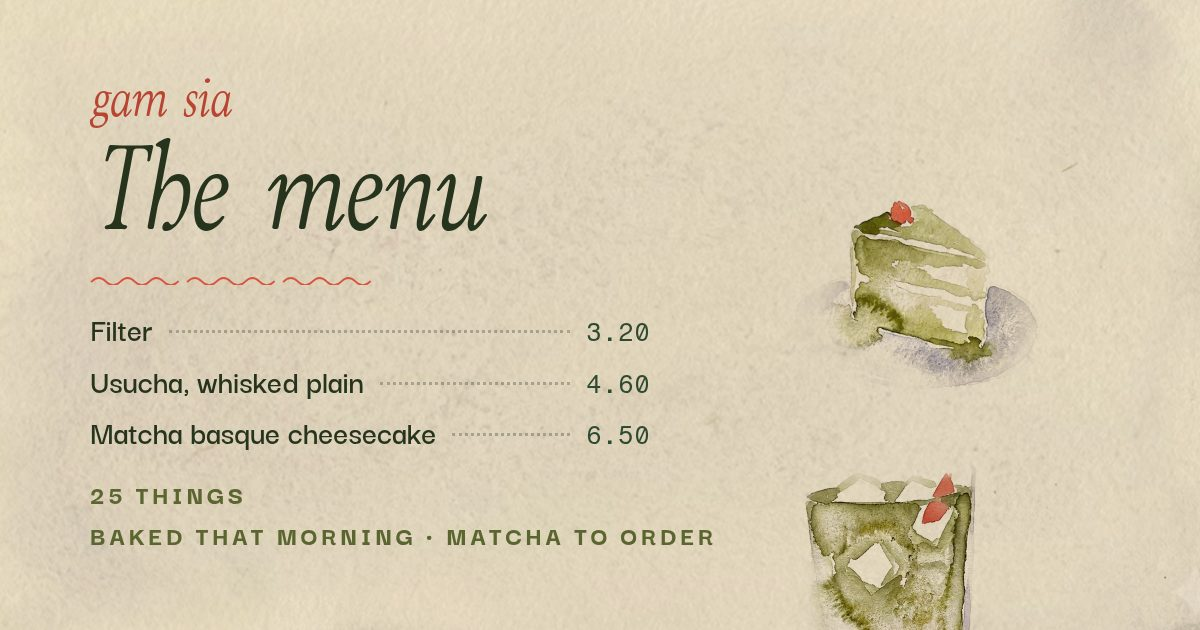
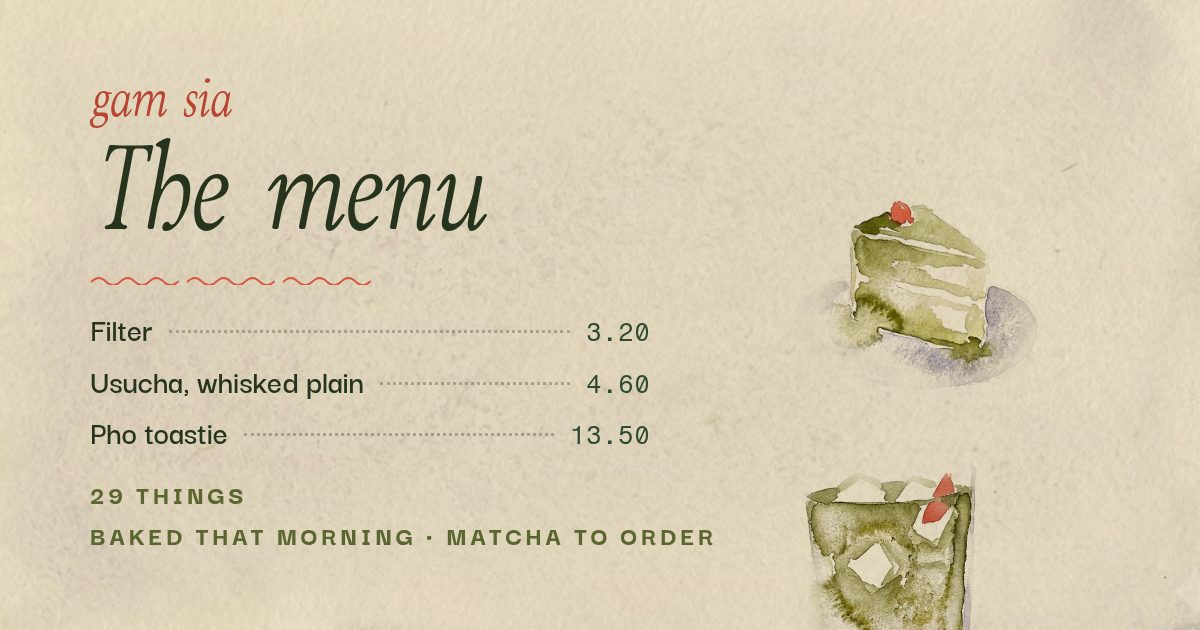
Add an east-west Kitchen to the board and lean the copy into it
The board grows a Kitchen section: a pho toastie (brisket pho pressed
into a sandwich, the broth alongside for dipping), a Singaporean chilli
prawn roll, and kaya toast with a soft egg, priced against what
Melbourne fusion cafes charge for the same plates. Cold picks up a
Vietnamese iced coffee. The section hangs the toast painting that was
already in art/ but never used.

Kitchen carries a standfirst, so the front page preview now pairs it
with Matcha; the copy follows: the morning hero names the broth, the
visit section admits it has been on since Thursday, and the titles,
descriptions and servesCuisine say east-west out loud. Derived blocks
and the menu share card regenerated; hero type re-measured against
every state ground and it all still clears WCAG AA.

Claude-Session: https://claude.ai/code/session_01QkL2ch7XDBHL9S3b3GDxwB

Changed region(s): [[0.0617, 0.6635, 0.4933, 0.7238], [0.1233, 0.7841, 0.185, 0.8143]]

diff --git a/menu.html b/menu.html
@@ -6,13 +6,13 @@
 <meta name="viewport" content="width=device-width, initial-scale=1">
 
 <title>The menu · gam sia</title>
-<meta name="description" content="The whole menu: desserts baked that morning, matcha built to order, coffee, and a little to take home.">
+<meta name="description" content="The whole menu: matcha built to order, an east-west kitchen with a pho toastie and a chilli prawn roll, desserts baked that morning, coffee, and a little to take home.">
 
 <link rel="canonical" href="https://itschriswang.github.io/VinsCafe/menu.html">
 <meta property="og:type" content="website">
 <meta property="og:site_name" content="gam sia">
 <meta property="og:title" content="The menu · gam sia">
-<meta property="og:description" content="The whole menu: desserts baked that morning, matcha built to order, coffee, and a little to take home.">
+<meta property="og:description" content="The whole menu: matcha built to order, a pho toastie with the broth alongside, desserts baked that morning, coffee, and a little to take home.">
 <meta property="og:url" content="https://itschriswang.github.io/VinsCafe/menu.html">
 <meta property="og:image" content="https://itschriswang.github.io/VinsCafe/art/og-menu.jpg">
 <meta property="og:image:width" content="1200">
@@ -45,9 +45,12 @@
   "name": "gam sia",
   "url": "https://itschriswang.github.io/VinsCafe/menu.html",
   "image": "https://itschriswang.github.io/VinsCafe/art/og-menu.jpg",
-  "description": "The menu at gam sia: desserts baked that morning, matcha built to order, coffee, and a little to take home.",
+  "description": "The menu at gam sia: matcha built to order, an east-west kitchen, desserts baked that morning, coffee, and a little to take home.",
   "servesCuisine": [
     "Coffee",
+    "Asian Fusion",
+    "Vietnamese",
+    "Singaporean",
     "Breakfast",
     "Sandwiches"
   ],
@@ -161,15 +164,16 @@
          the page works with no JavaScript and so crawlers can read it; if the
          two ever disagree the JSON wins and the board is rebuilt. -->
 <!--gen:board-->
-    <div class="board" data-menu-sig="1j0rq1i">
+    <div class="board" data-menu-sig="ciotie">
       <div class="board-col">
         <section class="sec" data-sec="coffee" style="--i:0"><img class="spot spot--cup" width="330" height="177" alt="Watercolour of a green and lilac cup, half full, a small red mark on its side." loading="lazy" decoding="async" sizes="(max-width:719px) 240px, (max-width:1179px) 260px, 330px" srcset="art/spot-cup-330w.avif 330w, art/spot-cup-660w.avif 660w" src="art/spot-cup-660w.webp"><img class="spot spot--espresso" width="200" height="194" alt="Watercolour of a green espresso cup with a lilac shadow pooling under it." loading="lazy" decoding="async" sizes="(max-width:719px) 150px, (max-width:1179px) 160px, 200px" srcset="art/spot-espresso-200w.avif 200w, art/spot-espresso-400w.avif 400w" src="art/spot-espresso-400w.webp"><div class="sec-head"><h2 class="sec-name">Coffee</h2><p class="sec-note">Oat, no charge</p></div><ul class="items"><li class="item"><span class="item-name">Filter</span><span class="item-lead" aria-hidden="true"></span><span class="item-price">3.20</span></li><li class="item"><span class="item-name">Espresso</span><span class="item-lead" aria-hidden="true"></span><span class="item-price">2.60</span></li><li class="item"><span class="item-name">Cortado</span><span class="item-lead" aria-hidden="true"></span><span class="item-price">3.40</span></li><li class="item"><span class="item-name">Flat white</span><span class="item-lead" aria-hidden="true"></span><span class="item-price">3.80</span></li><li class="item"><span class="item-name">Latte</span><span class="item-lead" aria-hidden="true"></span><span class="item-price">4.00</span></li><li class="item"><span class="item-name">Cold brew</span><span class="item-lead" aria-hidden="true"></span><span class="item-price">4.20</span></li></ul></section>
-        <section class="sec" data-sec="desserts" style="--i:2"><img class="spot spot--cake" width="300" height="342" alt="Watercolour of a slice of layer cake on a grey plate, a red cherry on top." loading="lazy" decoding="async" sizes="(max-width:719px) 230px, (max-width:1179px) 240px, 300px" srcset="art/spot-cake-300w.avif 300w, art/spot-cake-600w.avif 600w" src="art/spot-cake-600w.webp"><img class="spot spot--croissant" width="320" height="320" alt="Watercolour of a croissant in olive and grey, one flake of it catching red." loading="lazy" decoding="async" sizes="(max-width:719px) 250px, (max-width:1179px) 255px, 320px" srcset="art/spot-croissant-320w.avif 320w, art/spot-croissant-640w.avif 640w" src="art/spot-croissant-640w.webp"><div class="sec-head"><h2 class="sec-name">Desserts</h2><p class="sec-note">Fresh from the oven</p></div><ul class="items"><li class="item"><span class="item-name">Matcha basque cheesecake</span><span class="item-lead" aria-hidden="true"></span><span class="item-price">6.50</span></li><li class="item"><span class="item-name">Black sesame cookie</span><span class="item-lead" aria-hidden="true"></span><span class="item-price">3.60</span></li><li class="item"><span class="item-name">Cake of the day</span><span class="item-lead" aria-hidden="true"></span><span class="item-price">4.80</span></li><li class="item"><span class="item-name">Cardamom bun</span><span class="item-lead" aria-hidden="true"></span><span class="item-price">4.20</span></li><li class="item"><span class="item-name">Croissant</span><span class="item-lead" aria-hidden="true"></span><span class="item-price">3.60</span></li><li class="item"><span class="item-name">Hojicha custard tart</span><span class="item-lead" aria-hidden="true"></span><span class="item-price">5.20</span></li></ul><p class="standfirst">Made this morning for this morning. When the cabinet is empty, that is the end of it, so come early for the full spread.</p></section>
-        <section class="sec" data-sec="take-home" style="--i:4"><img class="spot spot--beans" width="200" height="228" alt="Watercolour of a paper bag of coffee, the dark green showing through the sides." loading="lazy" decoding="async" sizes="(max-width:719px) 170px, (max-width:1179px) 160px, 200px" srcset="art/spot-beans-200w.avif 200w, art/spot-beans-400w.avif 400w" src="art/spot-beans-400w.webp"><div class="sec-head"><h2 class="sec-name">Take home</h2><p class="sec-note">While it lasts</p></div><ul class="items"><li class="item"><span class="item-name">Beans, 250g</span><span class="item-lead" aria-hidden="true"></span><span class="item-price">12.00</span></li><li class="item"><span class="item-name">Matcha, 30g</span><span class="item-lead" aria-hidden="true"></span><span class="item-price">18.00</span></li><li class="item"><span class="item-name">Filter papers</span><span class="item-lead" aria-hidden="true"></span><span class="item-price">4.00</span></li></ul></section>
+        <section class="sec" data-sec="kitchen" style="--i:2"><img class="spot spot--toast" width="220" height="252" alt="Watercolour of two thick slices of toast stacked, a red drop of jam below them." loading="lazy" decoding="async" sizes="(max-width:719px) 170px, (max-width:1179px) 175px, 220px" srcset="art/spot-toast-220w.avif 220w, art/spot-toast-440w.avif 440w" src="art/spot-toast-440w.webp"><div class="sec-head"><h2 class="sec-name">Kitchen</h2><p class="sec-note">Under the grill</p></div><ul class="items"><li class="item"><span class="item-name">Pho toastie</span><span class="item-lead" aria-hidden="true"></span><span class="item-price">13.50</span></li><li class="item"><span class="item-name">Singaporean chilli prawn roll</span><span class="item-lead" aria-hidden="true"></span><span class="item-price">15.00</span></li><li class="item"><span class="item-name">Kaya toast, soft egg</span><span class="item-lead" aria-hidden="true"></span><span class="item-price">7.50</span></li></ul><p class="standfirst">Brisket pho, pressed into a toastie, the broth alongside for dipping. The prawn roll wears a Singapore chilli crab sauce.</p></section>
+        <section class="sec" data-sec="cold" style="--i:4"><img class="spot spot--coldbrew" width="220" height="251" alt="Watercolour of a tumbler of iced coffee, the ice drawn as gaps left in the wash." loading="lazy" decoding="async" sizes="(max-width:719px) 190px, (max-width:1179px) 175px, 220px" srcset="art/spot-coldbrew-220w.avif 220w, art/spot-coldbrew-440w.avif 440w" src="art/spot-coldbrew-440w.webp"><div class="sec-head"><h2 class="sec-name">Cold</h2><p class="sec-note">From the fridge</p></div><ul class="items"><li class="item"><span class="item-name">Iced filter</span><span class="item-lead" aria-hidden="true"></span><span class="item-price">4.00</span></li><li class="item"><span class="item-name">Vietnamese iced coffee</span><span class="item-lead" aria-hidden="true"></span><span class="item-price">5.80</span></li><li class="item"><span class="item-name">House lemonade</span><span class="item-lead" aria-hidden="true"></span><span class="item-price">3.80</span></li><li class="item"><span class="item-name">Yuzu soda</span><span class="item-lead" aria-hidden="true"></span><span class="item-price">4.20</span></li></ul></section>
       </div>
       <div class="board-col">
         <section class="sec sec--flip" data-sec="matcha" style="--i:1"><img class="spot spot--matcha" width="280" height="319" alt="Watercolour of a matcha bowl and a bamboo whisk, the green settling in the base." loading="lazy" decoding="async" sizes="(max-width:719px) 210px, (max-width:1179px) 225px, 280px" srcset="art/spot-matcha-280w.avif 280w, art/spot-matcha-560w.avif 560w" src="art/spot-matcha-560w.webp"><img class="spot spot--teapot" width="270" height="300" alt="Watercolour of a squat green teapot with a lilac handle, on a pale wash." loading="lazy" decoding="async" sizes="(max-width:719px) 200px, (max-width:1179px) 215px, 270px" srcset="art/spot-teapot-270w.avif 270w, art/spot-teapot-540w.avif 540w" src="art/spot-teapot-540w.webp"><div class="sec-head"><h2 class="sec-name">Matcha</h2><p class="sec-note">Built to order</p></div><ul class="items"><li class="item"><span class="item-name">Usucha, whisked plain</span><span class="item-lead" aria-hidden="true"></span><span class="item-price">4.60</span></li><li class="item"><span class="item-name">Matcha latte</span><span class="item-lead" aria-hidden="true"></span><span class="item-price">5.00</span></li><li class="item"><span class="item-name">Ceremonial grade</span><span class="item-lead" aria-hidden="true"></span><span class="item-price">6.20</span></li><li class="item"><span class="item-name">Iced matcha</span><span class="item-lead" aria-hidden="true"></span><span class="item-price">5.00</span></li><li class="item"><span class="item-name">Iced matcha latte</span><span class="item-lead" aria-hidden="true"></span><span class="item-price">5.40</span></li><li class="item"><span class="item-name">Matcha tonic</span><span class="item-lead" aria-hidden="true"></span><span class="item-price">5.20</span></li><li class="item"><span class="item-name">Hojicha latte</span><span class="item-lead" aria-hidden="true"></span><span class="item-price">4.80</span></li></ul><p class="standfirst">Say the grade, the milk and how sweet. Ceremonial is stone-ground and thinner; the everyday grade takes milk better.</p></section>
-        <section class="sec sec--flip" data-sec="cold" style="--i:3"><img class="spot spot--coldbrew" width="220" height="251" alt="Watercolour of a tumbler of iced coffee, the ice drawn as gaps left in the wash." loading="lazy" decoding="async" sizes="(max-width:719px) 190px, (max-width:1179px) 175px, 220px" srcset="art/spot-coldbrew-220w.avif 220w, art/spot-coldbrew-440w.avif 440w" src="art/spot-coldbrew-440w.webp"><div class="sec-head"><h2 class="sec-name">Cold</h2><p class="sec-note">From the fridge</p></div><ul class="items"><li class="item"><span class="item-name">Iced filter</span><span class="item-lead" aria-hidden="true"></span><span class="item-price">4.00</span></li><li class="item"><span class="item-name">House lemonade</span><span class="item-lead" aria-hidden="true"></span><span class="item-price">3.80</span></li><li class="item"><span class="item-name">Yuzu soda</span><span class="item-lead" aria-hidden="true"></span><span class="item-price">4.20</span></li></ul></section>
+        <section class="sec sec--flip" data-sec="desserts" style="--i:3"><img class="spot spot--cake" width="300" height="342" alt="Watercolour of a slice of layer cake on a grey plate, a red cherry on top." loading="lazy" decoding="async" sizes="(max-width:719px) 230px, (max-width:1179px) 240px, 300px" srcset="art/spot-cake-300w.avif 300w, art/spot-cake-600w.avif 600w" src="art/spot-cake-600w.webp"><img class="spot spot--croissant" width="320" height="320" alt="Watercolour of a croissant in olive and grey, one flake of it catching red." loading="lazy" decoding="async" sizes="(max-width:719px) 250px, (max-width:1179px) 255px, 320px" srcset="art/spot-croissant-320w.avif 320w, art/spot-croissant-640w.avif 640w" src="art/spot-croissant-640w.webp"><div class="sec-head"><h2 class="sec-name">Desserts</h2><p class="sec-note">Fresh from the oven</p></div><ul class="items"><li class="item"><span class="item-name">Matcha basque cheesecake</span><span class="item-lead" aria-hidden="true"></span><span class="item-price">6.50</span></li><li class="item"><span class="item-name">Black sesame cookie</span><span class="item-lead" aria-hidden="true"></span><span class="item-price">3.60</span></li><li class="item"><span class="item-name">Cake of the day</span><span class="item-lead" aria-hidden="true"></span><span class="item-price">4.80</span></li><li class="item"><span class="item-name">Cardamom bun</span><span class="item-lead" aria-hidden="true"></span><span class="item-price">4.20</span></li><li class="item"><span class="item-name">Croissant</span><span class="item-lead" aria-hidden="true"></span><span class="item-price">3.60</span></li><li class="item"><span class="item-name">Hojicha custard tart</span><span class="item-lead" aria-hidden="true"></span><span class="item-price">5.20</span></li></ul><p class="standfirst">Made this morning for this morning. When the cabinet is empty, that is the end of it, so come early for the full spread.</p></section>
+        <section class="sec sec--flip" data-sec="take-home" style="--i:5"><img class="spot spot--beans" width="200" height="228" alt="Watercolour of a paper bag of coffee, the dark green showing through the sides." loading="lazy" decoding="async" sizes="(max-width:719px) 170px, (max-width:1179px) 160px, 200px" srcset="art/spot-beans-200w.avif 200w, art/spot-beans-400w.avif 400w" src="art/spot-beans-400w.webp"><div class="sec-head"><h2 class="sec-name">Take home</h2><p class="sec-note">While it lasts</p></div><ul class="items"><li class="item"><span class="item-name">Beans, 250g</span><span class="item-lead" aria-hidden="true"></span><span class="item-price">12.00</span></li><li class="item"><span class="item-name">Matcha, 30g</span><span class="item-lead" aria-hidden="true"></span><span class="item-price">18.00</span></li><li class="item"><span class="item-name">Filter papers</span><span class="item-lead" aria-hidden="true"></span><span class="item-price">4.00</span></li></ul></section>
       </div>
     </div>
 <!--/gen-->

diff --git a/index.html b/index.html
@@ -5,14 +5,14 @@
 <meta charset="utf-8">
 <meta name="viewport" content="width=device-width, initial-scale=1">
 
-<title>gam sia · desserts and matcha, Sundays only</title>
-<meta name="description" content="A small cafe on Kingsway in Glen Waverley, open Sundays only, eight till two. Desserts baked that morning, matcha built to order, and coffee.">
+<title>gam sia · matcha, pho toasties and desserts, Sundays only</title>
+<meta name="description" content="A small cafe on Kingsway in Glen Waverley, open Sundays only, eight till two. Matcha built to order, a small east-west kitchen, and desserts baked that morning.">
 
 <link rel="canonical" href="https://itschriswang.github.io/VinsCafe/">
 <meta property="og:type" content="website">
 <meta property="og:site_name" content="gam sia">
-<meta property="og:title" content="gam sia · desserts and matcha, Sundays only">
-<meta property="og:description" content="Desserts baked that morning, matcha built to order, and coffee. One morning a week: Sundays, eight till two.">
+<meta property="og:title" content="gam sia · matcha, pho toasties and desserts, Sundays only">
+<meta property="og:description" content="Matcha built to order, a pho toastie with the broth alongside, and desserts baked that morning. One morning a week: Sundays, eight till two.">
 <meta property="og:url" content="https://itschriswang.github.io/VinsCafe/">
 <meta property="og:image" content="https://itschriswang.github.io/VinsCafe/art/og-home.jpg">
 <meta property="og:image:width" content="1200">
@@ -47,9 +47,12 @@
   "name": "gam sia",
   "url": "https://itschriswang.github.io/VinsCafe/",
   "image": "https://itschriswang.github.io/VinsCafe/art/og-home.jpg",
-  "description": "A small independent cafe on Kingsway, Glen Waverley. Desserts, matcha built to order, and coffee. Sundays only.",
+  "description": "A small independent cafe on Kingsway, Glen Waverley. Matcha built to order, an east-west kitchen, desserts, and coffee. Sundays only.",
   "servesCuisine": [
     "Coffee",
+    "Asian Fusion",
+    "Vietnamese",
+    "Singaporean",
     "Breakfast",
     "Sandwiches"
   ],
@@ -197,19 +200,19 @@
   <div class="page-inner">
     <div class="preview-head">
       <h2>Made like it matters</h2>
-      <p class="page-meta">Baked that morning<br>Matcha to order</p>
+      <p class="page-meta">Matcha to order<br>Broth on since dawn</p>
     </div>
     <div class="page-rule" aria-hidden="true"></div>
 
 <!--gen:preview-->
-    <div class="preview-cols" data-preview-sig="1g0mv7o">
+    <div class="preview-cols" data-preview-sig="6pnu2">
       <section class="sec" data-sec="matcha" style="--i:0"><img class="spot spot--matcha" width="280" height="319" alt="Watercolour of a matcha bowl and a bamboo whisk, the green settling in the base." loading="lazy" decoding="async" sizes="(max-width:719px) 210px, (max-width:1179px) 225px, 280px" srcset="art/spot-matcha-280w.avif 280w, art/spot-matcha-560w.avif 560w" src="art/spot-matcha-560w.webp"><div class="sec-head"><h3 class="sec-name">Matcha</h3><p class="sec-note">Built to order</p></div><ul class="items"><li class="item"><span class="item-name">Usucha, whisked plain</span><span class="item-lead" aria-hidden="true"></span><span class="item-price">4.60</span></li><li class="item"><span class="item-name">Matcha latte</span><span class="item-lead" aria-hidden="true"></span><span class="item-price">5.00</span></li><li class="item"><span class="item-name">Ceremonial grade</span><span class="item-lead" aria-hidden="true"></span><span class="item-price">6.20</span></li><li class="item"><span class="item-name">Iced matcha</span><span class="item-lead" aria-hidden="true"></span><span class="item-price">5.00</span></li></ul><p class="sec-more">and 3 more</p></section>
-      <section class="sec sec--flip" data-sec="desserts" style="--i:1"><img class="spot spot--cake" width="300" height="342" alt="Watercolour of a slice of layer cake on a grey plate, a red cherry on top." loading="lazy" decoding="async" sizes="(max-width:719px) 230px, (max-width:1179px) 240px, 300px" srcset="art/spot-cake-300w.avif 300w, art/spot-cake-600w.avif 600w" src="art/spot-cake-600w.webp"><div class="sec-head"><h3 class="sec-name">Desserts</h3><p class="sec-note">Fresh from the oven</p></div><ul class="items"><li class="item"><span class="item-name">Matcha basque cheesecake</span><span class="item-lead" aria-hidden="true"></span><span class="item-price">6.50</span></li><li class="item"><span class="item-name">Black sesame cookie</span><span class="item-lead" aria-hidden="true"></span><span class="item-price">3.60</span></li><li class="item"><span class="item-name">Cake of the day</span><span class="item-lead" aria-hidden="true"></span><span class="item-price">4.80</span></li><li class="item"><span class="item-name">Cardamom bun</span><span class="item-lead" aria-hidden="true"></span><span class="item-price">4.20</span></li></ul><p class="sec-more">and 2 more</p></section>
+      <section class="sec sec--flip" data-sec="kitchen" style="--i:1"><img class="spot spot--toast" width="220" height="252" alt="Watercolour of two thick slices of toast stacked, a red drop of jam below them." loading="lazy" decoding="async" sizes="(max-width:719px) 170px, (max-width:1179px) 175px, 220px" srcset="art/spot-toast-220w.avif 220w, art/spot-toast-440w.avif 440w" src="art/spot-toast-440w.webp"><div class="sec-head"><h3 class="sec-name">Kitchen</h3><p class="sec-note">Under the grill</p></div><ul class="items"><li class="item"><span class="item-name">Pho toastie</span><span class="item-lead" aria-hidden="true"></span><span class="item-price">13.50</span></li><li class="item"><span class="item-name">Singaporean chilli prawn roll</span><span class="item-lead" aria-hidden="true"></span><span class="item-price">15.00</span></li><li class="item"><span class="item-name">Kaya toast, soft egg</span><span class="item-lead" aria-hidden="true"></span><span class="item-price">7.50</span></li></ul></section>
     </div>
     <div class="preview-tail">
-      <p class="preview-rest">Also on the menu: Coffee, Cold, Take home.</p>
+      <p class="preview-rest">Also on the menu: Coffee, Desserts, Cold, Take home.</p>
       <a class="hero-onward preview-more" href="menu.html#menu">
-        The whole menu, 25 things
+        The whole menu, 29 things
         <span class="mark mark--onward" aria-hidden="true"></span>
       </a>
     </div>
@@ -220,7 +223,7 @@
 <section class="visit">
   <div class="visit-inner">
     <h2>Come while the <span class="u-sun">trays are still warm.</span></h2>
-    <p>We spend six days dreaming up one morning: proofing, grinding, whisking practice rounds nobody ever sees. Come taste what the fuss is about.</p>
+    <p>We spend six days dreaming up one morning: proofing, grinding, a pho broth on from Thursday, whisking practice rounds nobody ever sees. Come taste what the fuss is about.</p>
     <div class="visit-actions">
       <a class="hero-onward" href="menu.html#menu">
         See the whole menu

diff --git a/app.js b/app.js
@@ -47,7 +47,7 @@
       eyebrow: null,       /* derived: the hours are the whole story now */
       mark: 'note',
       headline: 'The morning we wait all week for.',
-      body: 'First light through the window, warm trays coming out, the first pour of the day. Six days of getting ready, for this.'
+      body: 'First light through the window, warm trays coming out, the pho broth back on the heat. Six days of getting ready, for this.'
     },
     midday: {
       eyebrow: 'Say how you want it',

diff --git a/find-us.html b/find-us.html
@@ -48,6 +48,9 @@
   "description": "gam sia is at 5 Kingsway, two minutes' walk from Glen Waverley station.",
   "servesCuisine": [
     "Coffee",
+    "Asian Fusion",
+    "Vietnamese",
+    "Singaporean",
     "Breakfast",
     "Sandwiches"
   ],

diff --git a/EDITING.md b/EDITING.md
@@ -29,11 +29,12 @@ This is the menu. Each block is one section of the board.
   plain numbers in quotes, no pound sign; the page adds nothing to them.
 - **`note`** is the small capitals line beside the section name. Leave it out
   if there isn't one.
-- **`standfirst`** is the longer italic line under the items. Only Coffee and
-  Kitchen have one. Keep it to about two lines; it is cut off past 34 characters
-  a line by design. **It also decides the front page:** the two sections with a
-  standfirst are the two shown under the hero on the home page, four items each.
-  Move it to another section and the front page follows.
+- **`standfirst`** is the longer italic line under the items. Matcha, Kitchen
+  and Desserts have one. Keep it to about two lines; it is cut off past 34
+  characters a line by design. **It also decides the front page:** the first
+  two sections with a standfirst are the two shown under the hero on the home
+  page, four items each. Move one to another section and the front page
+  follows.
 - **`spots`** are the paintings in the margin. Leave these alone unless you have
   had new ones painted. The first spot of each front-page section is also the
   painting that appears beside it on the home page.
